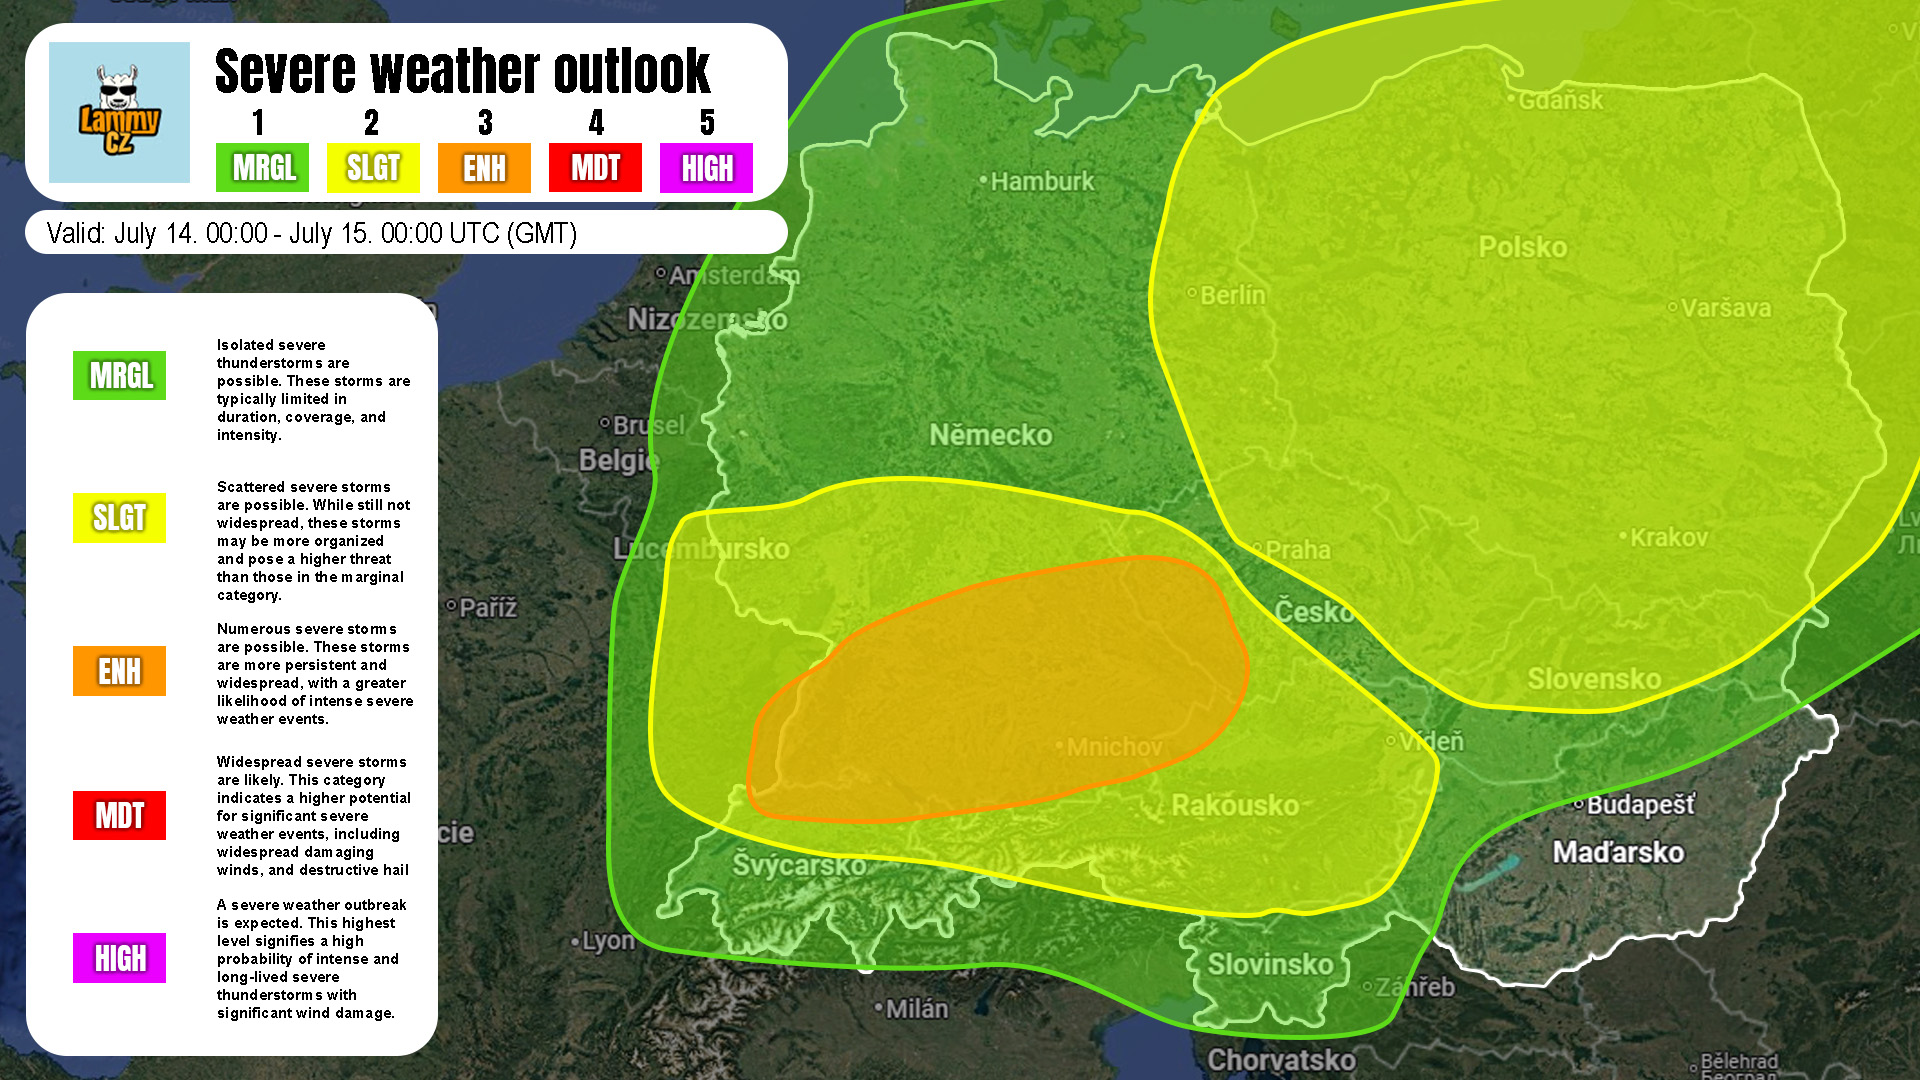
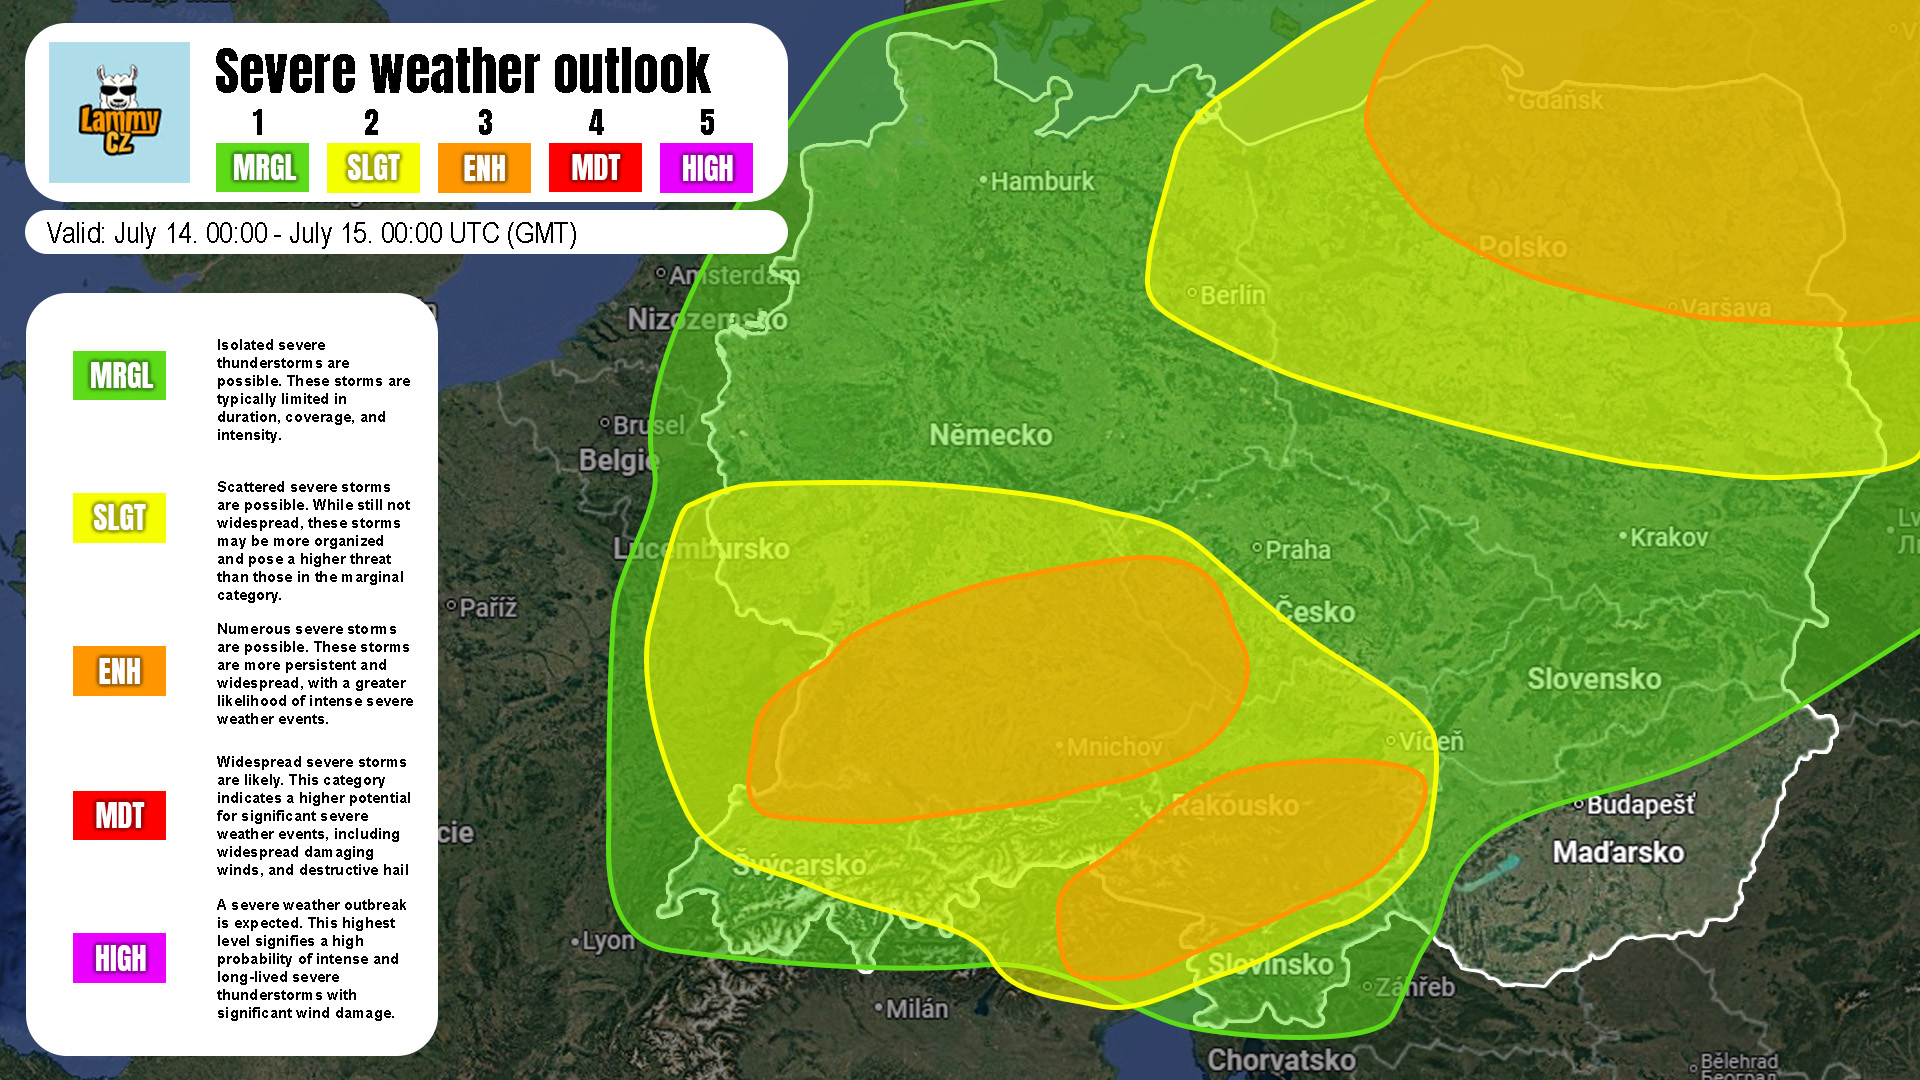
2025-07-14-updated

diff --git a/data/forecasts/2025-07-14.md b/data/forecasts/2025-07-14.md
@@ -5,6 +5,17 @@ threatLevel: Enhanced
 mapImage: /maps/2025-07-14.jpg
 ---
 
+## Updated outlook as of 7:00 UTC (GMT):
+
+As of the latest model guidance, the severe weather forecast for 14 July has been updated. Two new Enhanced Risk (ENH) areas have been introduced — one across Austria and parts of Slovenia, and another across eastern Poland. These changes are driven by improved model agreement showing a greater overlap of instability and shear in those regions. The previously broad Slight Risk (SLGT) area has also been reduced in size, with less support for widespread severe weather in some areas.
+
+The Austria/Slovenia ENH Risk is based on updated soundings showing strong surface-based instability, steep mid-level lapse rates, and effective shear supportive of organized multicells and supercells. The primary hazards include large hail, damaging winds, and locally heavy rainfall. The thermodynamic environment appears favorable especially during late afternoon to early evening.
+
+The Poland ENH Risk is supported by robust CAPE values, sufficient low-level moisture, and increasing wind profiles aloft, pointing toward severe storm development with potential for hail and strong wind gusts. The timing and mesoscale boundaries will likely dictate exact storm coverage, but multiple models now consistently highlight this corridor.
+
+Elsewhere, while a Slight Risk remains in place surrounding these two enhanced zones, the area has been trimmed where confidence in storm coverage or severity has decreased. Marginal areas still exist outside the SLGT boundary, but any storms there are expected to remain isolated and less intense.
+
+
 ## Overview of the Situation
 
 On 14 July 2025, an Enhanced Risk for severe thunderstorms is in place over parts of central and eastern Germany, supported by strong instability and deep-layer shear. A surrounding Slight Risk spans adjacent parts of Germany, Austria, Poland, and Czechia, where conditions will also support scattered strong to severe storms, though with slightly less organization. A broader Marginal Risk encompasses the region, where isolated thunderstorms or showers may develop, though severe parameters remain low.
